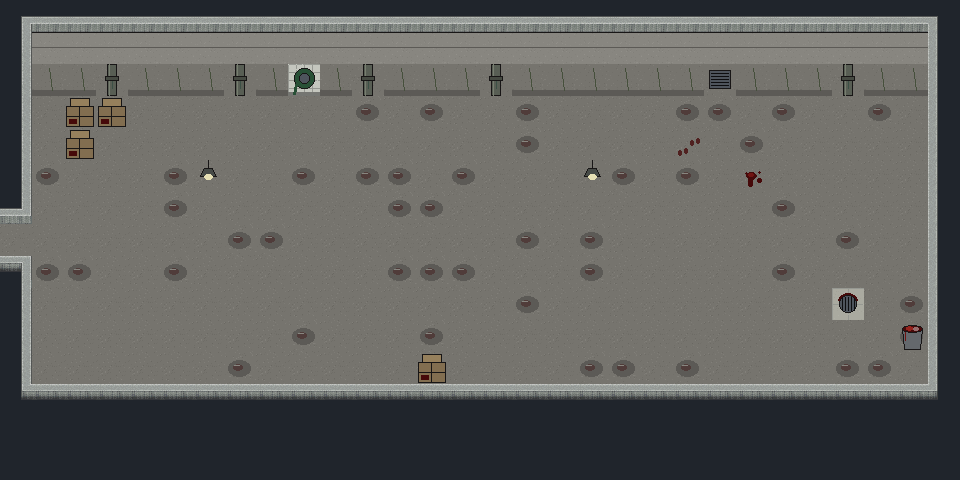
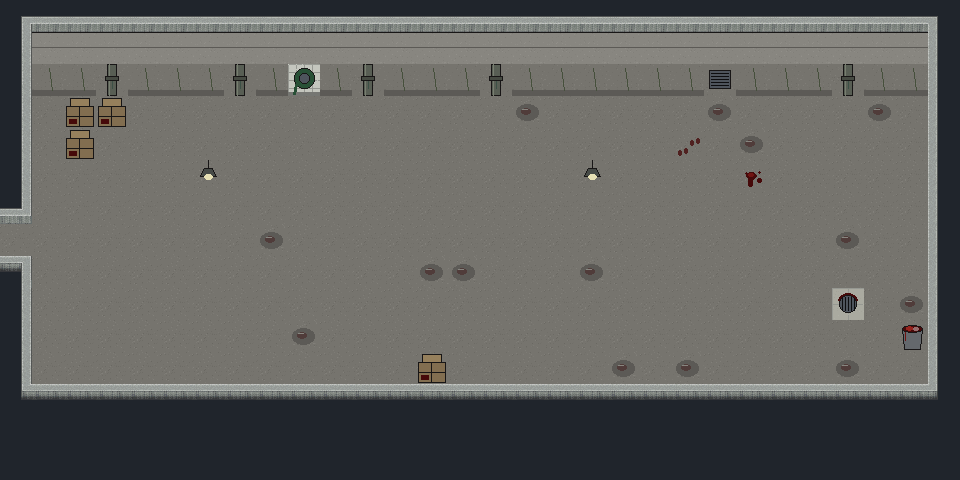
Acto II: documentación (ACTO_II.md), capturas con eventos y vaca del fondo de color canela

diff --git a/diseno/herramientas/maps2.py b/diseno/herramientas/maps2.py
@@ -82,7 +82,7 @@ def build_entrada():
     m = Mapa(5, ENTRADA, {
         "W": "pared_azulejo_alta", "w": "pared_azulejo_baja", ".": TILE_FLOOR,
         "B": "ladrillo_alto", "b": "ladrillo_bajo", "p": "acera",
-        "a": ("asfalto", "asfalto_charco", 0.07), "m": ("barro", "barro", 0), "f": "alambrada"}, 5)
+        "a": ("asfalto", "asfalto_charco", 0.04), "m": ("barro", "barro", 0), "f": "alambrada"}, 5)
     for x in (4, 10, 19, 25):
         m.put(0, x, 1, "ventana_nave")
     m.put(0, 5, 2, "puerta_metal"); m.put(0, 24, 2, "puerta_metal")
@@ -158,7 +158,7 @@ CORR = [
 ]
 def build_corrales():
     m = Mapa(7, CORR, {"W": "pared_hormigon_alta", "w": "pared_hormigon_baja",
-                       ".": ("hormigon", "hormigon_mojado", 0.12), "s": "paja"}, 7)
+                       ".": ("hormigon", "hormigon_mojado", 0.04), "s": "paja"}, 7)
     # manga (pasillo de las reses) hacia la cadena: filas 3-4 desde x=12
     for x in range(12, 29):
         m.put(1, x, 5, "valla_h")
@@ -337,7 +337,7 @@ PAS = [
 ]
 def build_pasillo():
     m = Mapa(11, PAS, {"W": "pared_hormigon_alta", "w": "pared_hormigon_baja",
-                       ".": ("hormigon", "hormigon_mojado", 0.18)}, 11)
+                       ".": ("hormigon", "hormigon_mojado", 0.05)}, 11)
     for x in (3, 7, 11, 15, 26):
         m.put(0, x, 2, "tuberia")
     m.put(0, 22, 2, "rejilla_pared")         # LA rejilla (el evento va encima)

diff --git a/diseno/herramientas/contenido2.py b/diseno/herramientas/contenido2.py
@@ -368,7 +368,7 @@ def corrales():
             T("Esta es distinta. Más pequeña, de un color de leche con canela. Tiene las pestañas claras."),
             T("No se mueve. No te mira. Mira la puerta del corral como quien espera el autobús."),
             IF(c_sw(S_TURNO3), [T(PIENSA + "(La del fondo. Me ha mandado traer a la del fondo.)" + FIN)]),
-        ], char="vacas_vaca", d=8, move_type=0, speed=2),
+        ], char="vacas_vaca_canela", d=8, move_type=0, speed=2),
         page([], sw1=S_VACA_FUERA),
     ])
     traer = [
@@ -626,7 +626,7 @@ def cadena():
     m.set("Vaca del cajon", 3, 5, [
         page([]),
         page([T("Te mira. Tiene los ojos mojados. No llora: las vacas no lloran. Es solo que tiene los ojos mojados.")],
-             sw1=S_VACA_FUERA, char="vacas_vaca", d=6, dirfix=True, through=True),
+             sw1=S_VACA_FUERA, char="vacas_vaca_canela", d=6, dirfix=True, through=True),
         page([], sw1=S_PRIMERA),
     ])
 

diff --git a/diseno/herramientas/gfx_acto2.py b/diseno/herramientas/gfx_acto2.py
@@ -554,6 +554,8 @@ def build_chars():
     whites(st, 0.9).save(C + "vacas_steven_mono.png")
     # vacas del corral
     grim(src("156-Animal06"), 0.35, 0.8, (1.0, 0.95, 0.88)).save(C + "vacas_vaca.png")
+    # la vaca del fondo: clara, color leche con canela
+    grim(src("156-Animal06"), 0.55, 1.45, (1.12, 0.98, 0.78)).save(C + "vacas_vaca_canela.png")
     # Lucy
     grim(src("123-Civilian23"), 0.4, 0.82, (1.0, 0.96, 0.9)).save(C + "vacas_lucy.png")
 

diff --git a/diseno/ACTO_II.md b/diseno/ACTO_II.md
@@ -1,0 +1,202 @@
+# Vacas: Acto II, «La cadena» (el matadero)
+
+Continúa el Acto I en la misma partida: al pulsar Intro en «Fin del Acto I», Steven aparece en el patio del matadero.
+Dura unos 30–40 minutos: tres turnos de trabajo y tres noches en casa.
+Todo el texto es original y en castellano. No hay contenido sexual. La violencia contra los animales se sugiere con fundidos, sonido y consecuencias.
+
+## 1. Mapas
+
+| ID | Nombre | Tamaño | Contenido |
+|---|---|---|---|
+| 5 | Matadero: entrada | 30×22 | Patio con lluvia, furgoneta, camión de ganado y verja. Arriba está el vestíbulo, con la **fichadora**, el tablón de normas, Cripps (fase 2) y las puertas al vestuario y a la cadena (esta última solo tiene un cartel). |
+| 6 | Matadero: vestuario | 20×15 | Taquillas (la **13** es la de Steven), bancos, fregaderos, sumidero, Encarna y el Chato. Salida a la cadena (solo con el mono). |
+| 7 | Matadero: corrales | 30×20 | Manga de entrada (filas 3–4), pasillo (fila 6) y tres corrales con paja. Hay vacas que deambulan, la **vaca del fondo** (color canela, corral 3), el Rubio y la picana. |
+| 8 | Matadero: la cadena | 40×24 | La sala de matanza: dos railes con ganchos y canales colgadas, dos **canales de desagüe** (autotile rojo), la **cinta** animada, el puesto de corte, el **cajón de aturdimiento** con la pistola de perno, Cripps, Benito, el obrero de la sierra y Encarna. |
+| 9 | Matadero: cámaras frías | 30×20 | Tres cámaras (cuartos / vísceras / cabezas) con filas de canales heladas, un pasillo y **Cripps patrullando**. Hay escondites entre las canales y detrás de las cajas, y un mensaje en la escarcha. |
+| 10 | Matadero: oficina de Cripps | 20×15 | Escritorio (el **Registro de reses**), archivadores (el **Plano del desagüe**), persiana sobre la cadena y foto. **Cripps sube y baja**. Hay escondites bajo la mesa y en el rincón. |
+| 11 | Matadero: pasillo de mantenimiento | 30×15 | Tuberías, manguera, la **rejilla de ventilación** (la Guernsey) y la trampilla del colector 4 (pista para el Acto IV). |
+| 2, 3 | El piso / La escalera | — | Son los mapas del Acto I, con páginas nuevas para las noches del Acto II (interruptor 27). |
+
+**Tileset propio**: el 51, «Vacas Matadero» (`Graphics/Tilesets/vacas_matadero.png`, 64 tiles dibujados con PIL). Incluye azulejo blanco y sucio, sangre, hormigón, paja, paredes de azulejo, hormigón, frío, madera y ladrillo, vallas, taquillas, cinta, railes y ganchos, mesas de acero, archivadores, rejillas, cuchillos y lámparas.
+
+- Autotiles: `053-Wall01`, el muro del Acto I, y `vacas_canal`, que es el canal de agua del RTP recoloreado en sangre (el desagüe; se puede pisar y tiene efecto «matorral»).
+- Pasabilidad y prioridades en `gfx_acto2.tables()`. La prioridad del tile 0 es 5, como en RMXP, para que los eventos sin tile no abran paso.
+
+**Gráficos nuevos** (`Graphics/Characters/`):
+
+- `vacas_cripps`: Grappler del RTP, más grande, oscuro y manchado.
+- `vacas_obrero1-4`: monos blanqueados con sangre.
+- `vacas_steven_mono`.
+- `vacas_vaca` y `vacas_vaca_canela`.
+- `vacas_lucy`.
+- `vacas_matadero`, una hoja de objetos:
+  - fila 1: la cinta en 4 fotogramas;
+  - fila 2: canales colgadas y gancho vacío;
+  - fila 3: fichadora, pistola de perno, cubo y caja;
+  - fila 4: la rejilla normal, con **ojo**, con **hocico** y doblada.
+
+**Ambiente**: cada mapa tiene un evento paralelo «Ambiente» que pone el tono, el BGS y la niebla y luego se borra, como en el Acto I.
+
+- La cadena: zumbido de máquinas (`015-Quake01` grave).
+- Las cámaras: goteo y frío azulado. Hay BGM (`036-Dungeon02` grave) solo mientras Cripps patrulla.
+- Los corrales: mugidos distorsionados (`070-Animal05` con el tono bajado).
+
+## 2. Flujo
+
+La variable 7 es el **turno** (1–3) y la 8 es la **fase**: 0 llegada · 1 fichar · 2 mono · 3+ tareas · 9 fichar la salida.
+
+### Turno 1: la cinta
+
+1. Llegada (autorun en el mapa 5).
+2. Fichar: se recibe la **Tarjeta de fichar** (STEPHEN) y Cripps se presenta. Hay que elegir entre bajar la mirada o sostenérsela.
+3. Taquilla 13: el mono de R. Mata. El gráfico de Steven cambia.
+4. La cadena: el **puesto de la cinta** (19,15) lanza el **minijuego de la cinta**.
+5. Cripps manda a por la manguera. En el pasillo, al cogerla, algo susurra desde la rejilla. **Charla 1** con la Guernsey: aparece un ojo.
+6. Se devuelve la manguera a Cripps («¿Te ha contado algo la rejilla?»).
+7. Fichar la salida. La furgoneta deja a Steven en la escalera.
+
+### Noche (turnos 1, 2 y 3)
+
+- Madre pide el **sueldo**. Se puede elegir:
+  - **Dárselo todo**.
+  - **Guardarte una moneda** (interruptor 37). Hay un tercio de probabilidad de que madre lo pille (bofetada, veneno +10, interruptor 42). La noche siguiente lo recuerda.
+- Perro baja el veneno −6 una vez por noche.
+- La tele funciona igual: ver la tele (programación nocturna) o **guardar**.
+- La puerta del piso no se abre.
+- Acostarse en la cama. Hay un sueño distinto cada noche y luego empieza el turno siguiente (`nuevo_turno`).
+
+### Turno 2: el corte, las cámaras y la oficina
+
+1. El **puesto de corte** (canal en (21,12)) lanza el **minijuego del corte**. Si se hacen menos de 3 cortes limpios, Cripps te guía la mano.
+2. **Clasificar**: se coge una pieza al **final de la cinta** (30,15) y se lleva a su cámara: cuartos a la 1, vísceras a la 2, cabezas a la 3. Hacen falta 3 entregas. **Cripps patrulla** (interruptor 26).
+3. Descanso. **Charla 2** en la rejilla (hocico): la Guernsey pide el libro de Cripps. Se abre la oficina y Cripps sube y baja (interruptor 29).
+4. Oficina:
+   - El escritorio da el **Registro de reses** (obligatorio).
+   - El archivador da el **Plano del desagüe** (opcional).
+5. **Charla 3**: Steven lee en voz alta «Lote 7. Guernsey… fuga por el colector 4. No consta». Ella le habla de **la manada de abajo** («Abajo somos muchas»), le avisa del cajón y le pide una promesa:
+   - «Volveré» activa el **pacto** (interruptor 38).
+6. Cripps: «Mañana te toca el cajón». Fichar la salida.
+
+### Turno 3: la primera muerte obligada
+
+1. Cripps: hay que traer «la del fondo».
+2. Corrales, puerta del corral 3. Se elige entre **llamarla en voz baja** o **usar la picana**. La vaca entra en la manga (interruptor 41).
+3. Al volver a la cadena empieza un autorun, «El cajón». Cripps, la pistola de perno y una alucinación si el veneno es ≥ 60. Hay que elegir:
+   - **Apretar**: fundido a negro, perno y caída. Activa **Obedeció** (35), veneno +32 (con tope de 96) y **huella 20**.
+   - **Bajar la pistola**: Cripps te fuerza el dedo y te pega. Activa **Se resistió** (36), veneno +24 y **huella 12**.
+   - En los dos casos se activa el interruptor 34, **Primera muerte hecha**.
+4. Steven despierta en el pasillo, junto a la rejilla. **Charla 4**: cambia según haya obedecido o resistido y según el pacto. Ella le habla de «alguien en tu escalera». Se cobra la «propina» (6).
+5. Fichar la salida. En la escalera de noche, **Lucy** baja del cuarto piso:
+   - presentación;
+   - su teoría del dolor que se queda dentro, «como la cal en una tetera»;
+   - da la **Nota de Lucy** («llama dos veces»).
+6. En casa: el sueldo y madre, que nota algo («Hueles a hombre, por fin»). Se puede guardar en la tele.
+7. Al acostarse: escena final y **«Fin del Acto II / La cadena / Continuará en el Acto III: Lucy»**. Luego se vuelve al título.
+
+**Huella** (variable 15): el veneno ya no baja de ese valor. Lo hecho en el cajón se queda.
+
+## 3. Mecánicas (script `Vacas_Matadero`, copia en `diseno/scripts/05_matadero.rb`)
+
+- **El corte**: `minijuego_corte(rondas)`. Una cuchilla va y viene por una barra y hay que pulsar Intro sobre la franja roja.
+  - La franja se estrecha y la cuchilla acelera en cada ronda.
+  - Con veneno ≥ 40 la canal «respira». Con veneno ≥ 50 la cuchilla tiembla.
+  - Resultado en la variable 12. Paga 4 + aciertos.
+- **La cinta**: `minijuego_cinta(piezas)`. Llegan piezas por la derecha y hay que pulsar la flecha marcada cuando entran en el recuadro. La cinta acelera.
+  - Resultado en la variable 12. Paga 3 + aciertos/2.
+- **Clasificar**: se hace con eventos (final de la cinta y los rótulos de las cámaras, variables 13 y 14, interruptor 40). Paga 1 por entrega.
+- **Vigilancia de Cripps**: los eventos llamados `Cripps vigila` ven 5 casillas en línea recta hacia donde miran y además notan al jugador pegado a ellos.
+  - Las paredes y las canales colgadas tapan la vista.
+  - Si te ven, se activa el interruptor 31 y un autorun «Pillado» en ese mapa. Veneno +15, frases que empeoran (variable 16), pierdes la pieza y te echa a la cadena. Con veneno 100 hay game over.
+  - Solo funciona con el interruptor 26 (cámaras) o el 29 (oficina).
+- **Escondites**: se pulsa Intro sobre una canal suelta o sobre unas cajas y se elige «Esconderte aquí». Steven se mete en el hueco, queda semitransparente y se activa el interruptor 30. Mientras está escondido Cripps no le ve. Cualquier dirección le saca.
+- **Núcleo** (`Vacas_Nucleo`):
+  - `subir_veneno_tope`, `huella`, `poner_mono`, `cobrar`, `entregar_sueldo`, `nuevo_turno`, `fase`, `perro_esta_noche?`/`perro_hecho` y `fin_del_acto2`.
+  - `Vacas.empezar_acto2` encadena el fin del Acto I con el Acto II.
+- **Menú**: la lista de «Pendiente» sigue el turno y la fase del Acto II.
+- **Guardado**: solo en la tele del piso, igual que en el Acto I.
+
+## 4. Interruptores y variables nuevos
+
+| Interruptor | Nombre |
+|---|---|
+| 22 | A2: Acto II empezado |
+| 23 | A2: En el matadero (turno) |
+| 24 | A2: Fichado |
+| 25 | A2: Mono puesto |
+| 26 | A2: Cripps patrulla cámaras |
+| 27 | A2: Noche en casa |
+| 28 | A2: Sueldo entregado |
+| 29 | A2: Cripps patrulla oficina |
+| 30 | A2: Steven escondido |
+| 31 | A2: Pillado por Cripps |
+| 32 | A2: Registro cogido |
+| 33 | A2: Plano cogido |
+| 34 | **A2: PRIMERA MUERTE hecha** |
+| 35 | **A2: Obedeció en el cajón** (rama de finales) |
+| 36 | **A2: Se resistió en el cajón** (rama de finales) |
+| 37 | A2: Se guardó dinero |
+| 38 | **A2: Pacto con la Guernsey** (Acto IV) |
+| 39 | **A2: Lucy conocida** (Acto III) |
+| 40 | A2: Lleva una pieza |
+| 41 | A2: Vaca del fondo en la manga |
+| 42 | A2: Madre le pilló la moneda |
+| 43 | A2: Tercer turno |
+| 44 | A2: Manguera cogida |
+
+| Variable | Nombre |
+|---|---|
+| 7 | A2: Turno (1-3) |
+| 8 | A2: Fase del turno (0-9) |
+| 9 | A2: Sueldo de hoy |
+| 10 | A2: Sueldo total |
+| 11 | A2: Charlas con la Guernsey (confianza: 5–7 al final) |
+| 12 | A2: Resultado del minijuego |
+| 13 | A2: Piezas clasificadas |
+| 14 | A2: Pieza que lleva (1 cuartos, 2 vísceras, 3 cabezas) |
+| 15 | Huella (veneno mínimo) |
+| 16 | A2: Veces pillado por Cripps |
+| 17 | A2: Última noche con Perro |
+
+**Objetos nuevos**:
+
+- 9: Tarjeta de fichar
+- 10: Registro de reses
+- 11: Plano del desagüe
+- 12: Manguera
+- 13: Nota de Lucy
+
+Las notas (9, 10, 11 y 13) se leen desde el menú con el evento común 1, que se ha ampliado.
+
+## 5. Cómo probarlo
+
+1. Cierra el editor. Abre `Game.exe`.
+2. **Atajo de prueba**: mantén **Mayús** al elegir «Nueva partida» y empezarás directamente en el Acto II, con los interruptores del Acto I hechos y veneno 30. Sin Mayús, la partida empieza en el Acto I y al terminarlo sigue sola.
+3. Recorrido rápido:
+   1. **T1**: fichadora → vestuario (taquilla 13) → cadena (cinta, en el centro) → pasillo (manguera → rejilla) → Cripps → vestuario → fichadora.
+   2. **Noche**: 3ºB → madre → (tele) → cama.
+   3. **T2**: fichadora → mono → corte (canal con tiza en (21,12)) → final de la cinta ↔ cámaras ×3 → pasillo (rejilla) → puerta metálica del fondo de la cadena → oficina (escritorio y archivador) → rejilla → fichadora.
+   4. **Noche**.
+   5. **T3**: fichadora → mono → Cripps → corrales (puerta del corral 3) → cadena (escena) → pasillo → fichadora → Lucy → madre → cama → fin.
+4. Con F9 (prueba desde el editor) puedes tocar la variable 8 (fase) para saltar partes.
+5. **Comprobado automáticamente** con un arnés temporal dentro de Game.exe, ya borrado:
+   - todos los mapas 5–11 en 14 combinaciones de turno y fase, y las noches;
+   - los dos minijuegos;
+   - la vigilancia (te ve de frente y no te ve escondido);
+   - la huella, el sueldo, el nuevo turno, el mono y Perro.
+   - Además: `validate_connectivity` sin errores (55 transferencias) y `validate_assets` sin referencias rotas.
+6. **Revisar a mano** en el juego y en el editor:
+   - la dificultad de los minijuegos;
+   - el ritmo de las patrullas (que se pueda pasar sin frustrar);
+   - que la vaca del fondo recorra bien la manga;
+   - la ruta de Lucy por la escalera;
+   - la oclusión de las canales colgadas sobre Steven;
+   - los volúmenes de los BGS y SE.
+
+## 6. Herramientas
+
+- `gfx_acto2.py`: tileset, autotile, personajes y objetos.
+- `maps2.py`: crea los mapas (`crear`) y pinta los tiles (`tiles`).
+- `contenido2.py`: los eventos del Acto II y las páginas nuevas del piso y la escalera.
+- `db2.py`: objetos y nombres de interruptores y variables.
+- `build_events.py`: regenera los eventos de **todos** los mapas, del 1 al 11.
+- Flujo: `python build_events.py` y luego `node rx.mjs --batch b_events.json`.
